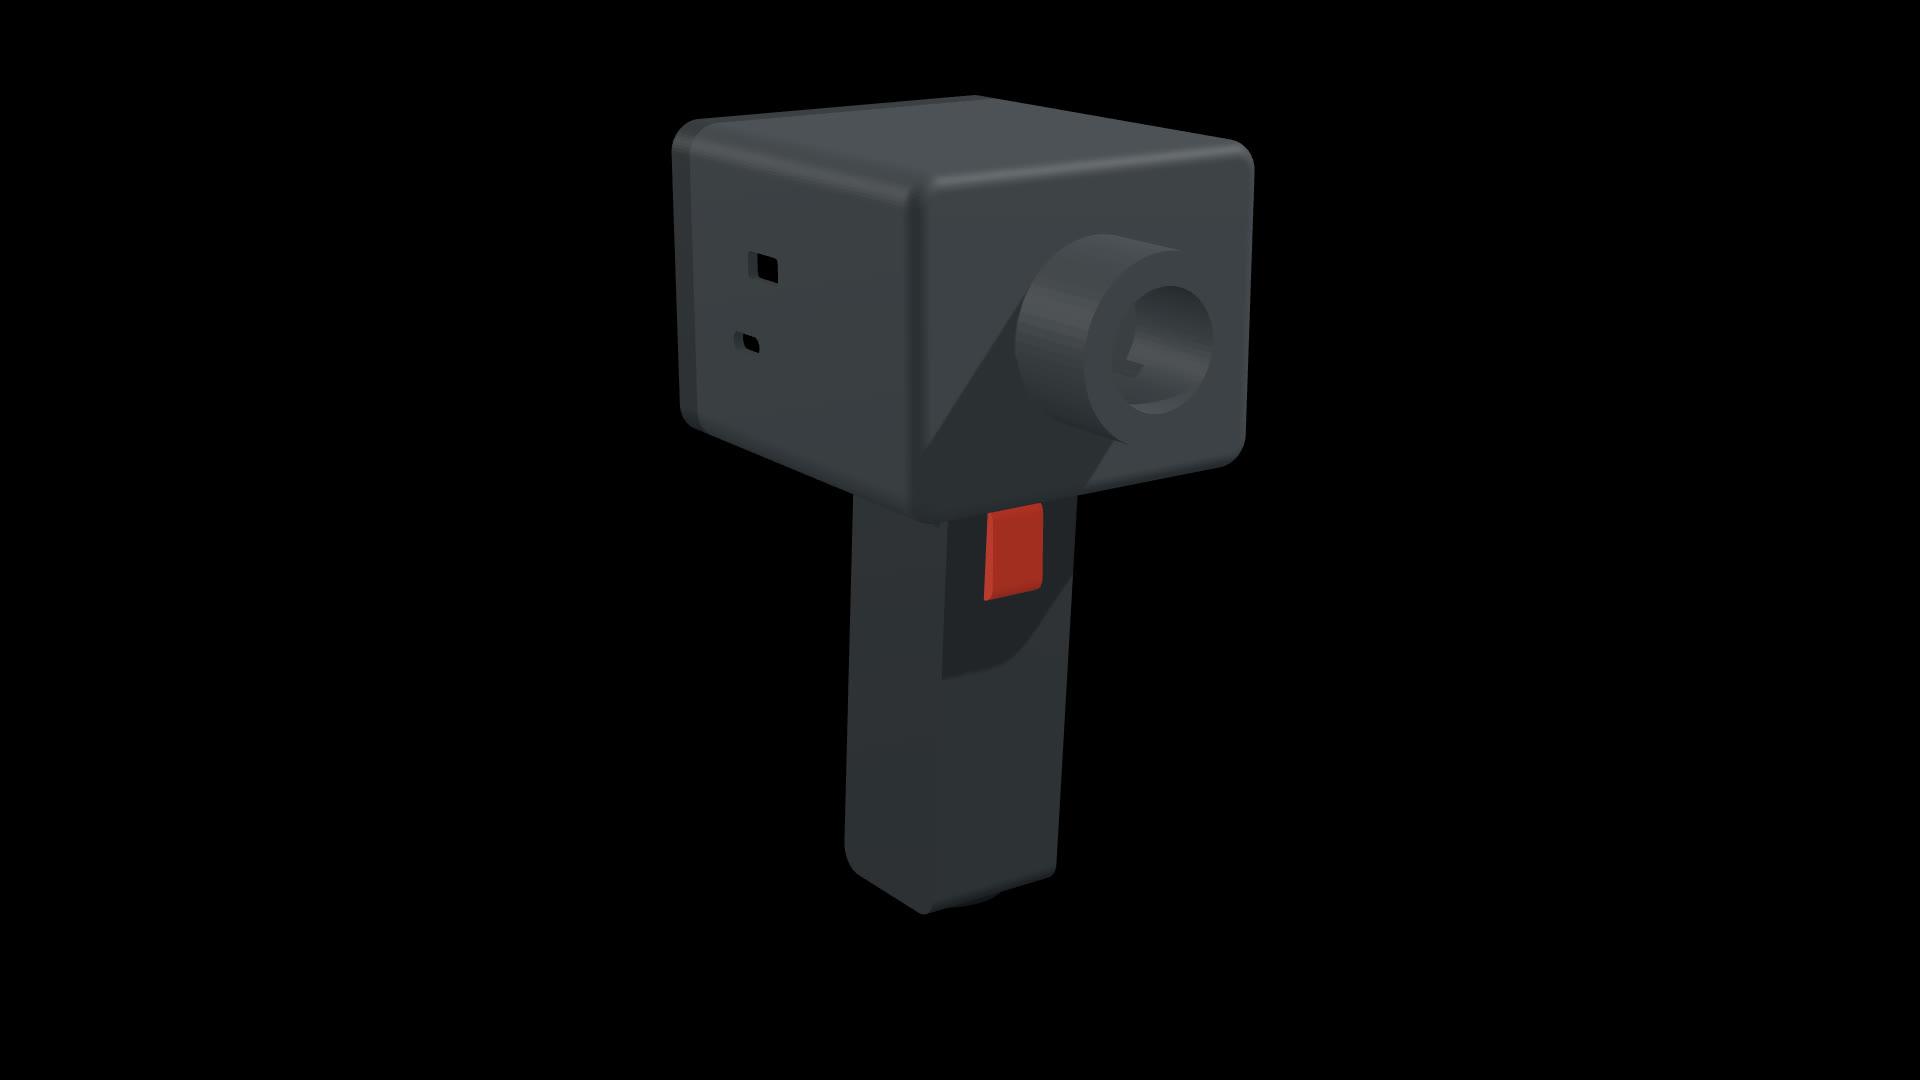
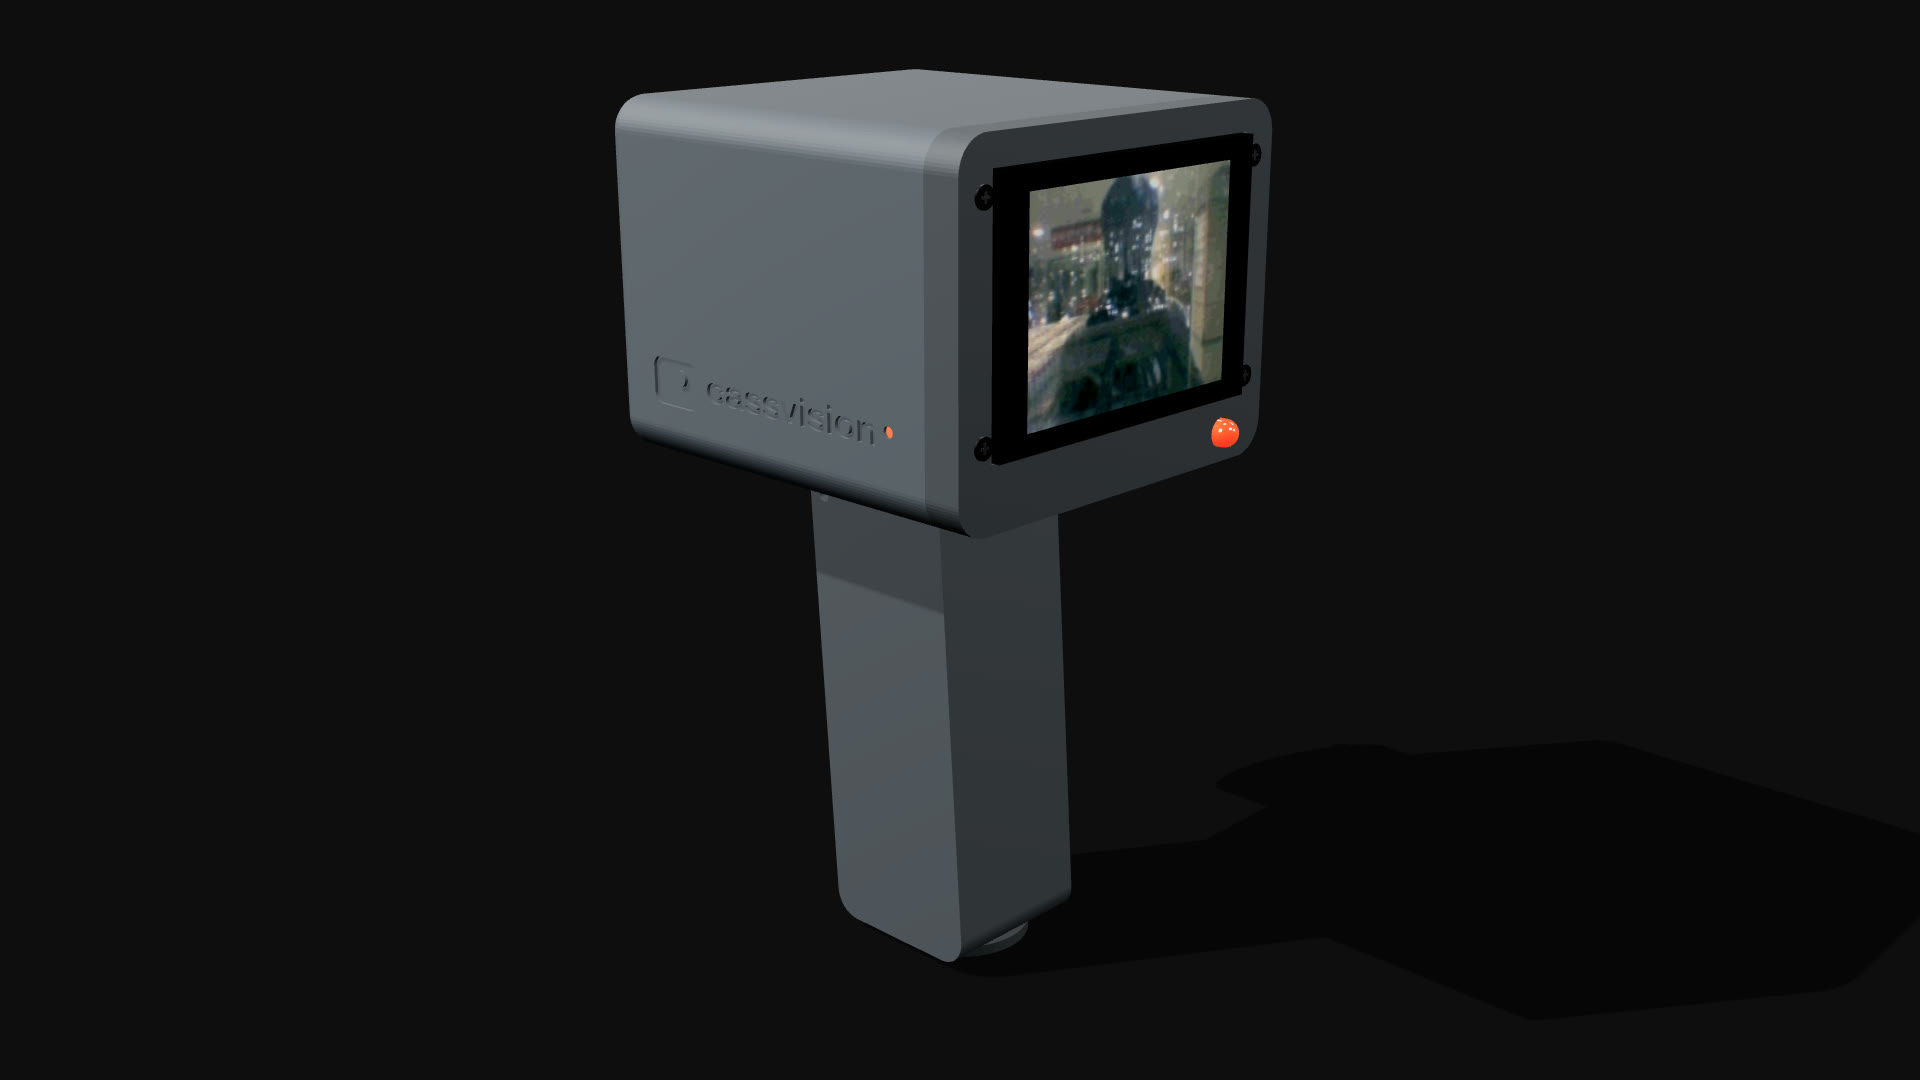
Cassvision: new list image from the current model; sync script for its assets
The Research card's image was a still from the removed hero render (old screen placement, no
window ring); it's now a three-quarter rear view of the current case with its live screen.
scripts/sync-cassvision.sh copies the STLs, pipeline JS, clips, screen still and carrier
renders from the Cassvision repo (--rebuild regenerates there first), stops on missing files,
and flags parts no longer synced. CLAUDE.md: when to run it and where a new part's name goes.
grip.stl is re-exported (same shape, different triangle order).

Changed region(s): [[0.3125, 0.0611, 0.6875, 0.8861]]

diff --git a/CLAUDE.md b/CLAUDE.md
@@ -41,11 +41,13 @@ src/
 public/
   images/projects/<slug>/  # project images
   home/                    # WebGPU homepage animation (JS + WGSL shaders)
-  lab/                     # interactive experiments (ambient-generator, interactive-frank-2)
+  lab/                     # interactive experiments (ambient-generator, interactive-frank-2, shaderlm);
+                           #   cassvision/ holds the Cassvision viewer's assets (synced, see below)
 
 scripts/
   process-video.sh         # HLS encoding (ffmpeg): [--grain] <input> <slug>; quality-based, capped per rendition
   upload-video.js          # S3 upload
+  sync-cassvision.sh       # copy Cassvision's STLs, pipeline JS, clips, carrier renders from ~/Developer/cassvision [--rebuild]
   scrape-squarespace.js    # original site scraper (migration)
   enrich-frontmatter.js    # MDX frontmatter enrichment (migration)
 ```
@@ -86,6 +88,15 @@ Schemas defined in `src/content.config.ts`.
 | heroViewer | `'' \| 'cassvision-case'` | interactive hero in place of the video/cover (Cassvision's 3D case: `src/components/cassvision/`, scene in `public/lab/cassvision/cassvision.js`); defaults `''` |
 | instagramPosts | `string[]` | defaults `[]` |
 | credits | `{ role, name, url? }[]` | shown as "Team" below the body; defaults `[]` |
+
+### Cassvision assets
+
+The Cassvision page's model comes from the Cassvision repo (`~/Developer/cassvision`, CAD in `enclosure/pxl_case.py`).
+After a CAD, pipeline or clip change there, run `scripts/sync-cassvision.sh` (add `--rebuild` to regenerate
+there first), check the page locally, and commit. A part added or renamed in the CAD also needs its name in
+the script's `PARTS`, in `cassvision.js` (`CASE_PARTS` or `CASE_INTERNALS`) and, for a printed part, a button in
+`CaseViewer.astro`. Details the CAD only cuts holes for (screen glass, lens, USB-C, switch, screws, LED,
+window disc) are drawn in `cassvision.js` from the CAD's numbers: update them there if those numbers change.
 
 ### Private (password-protected) projects
 
